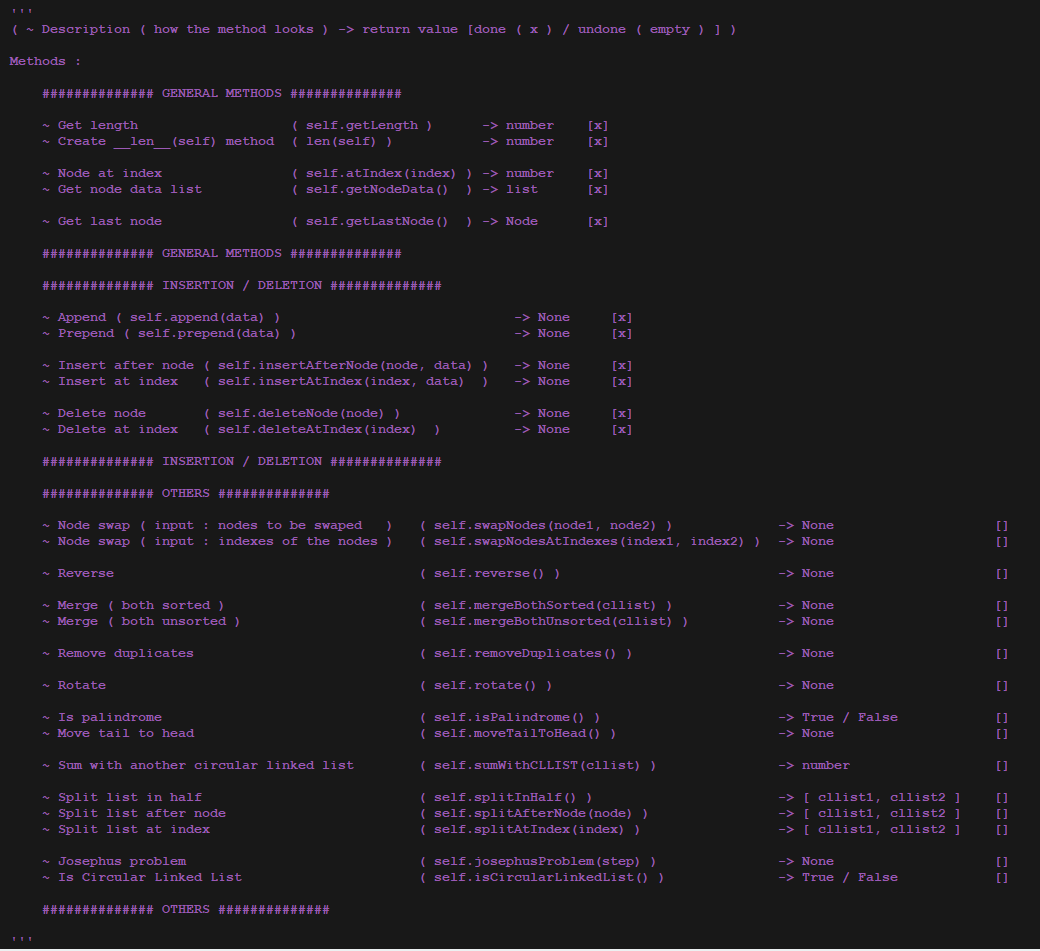
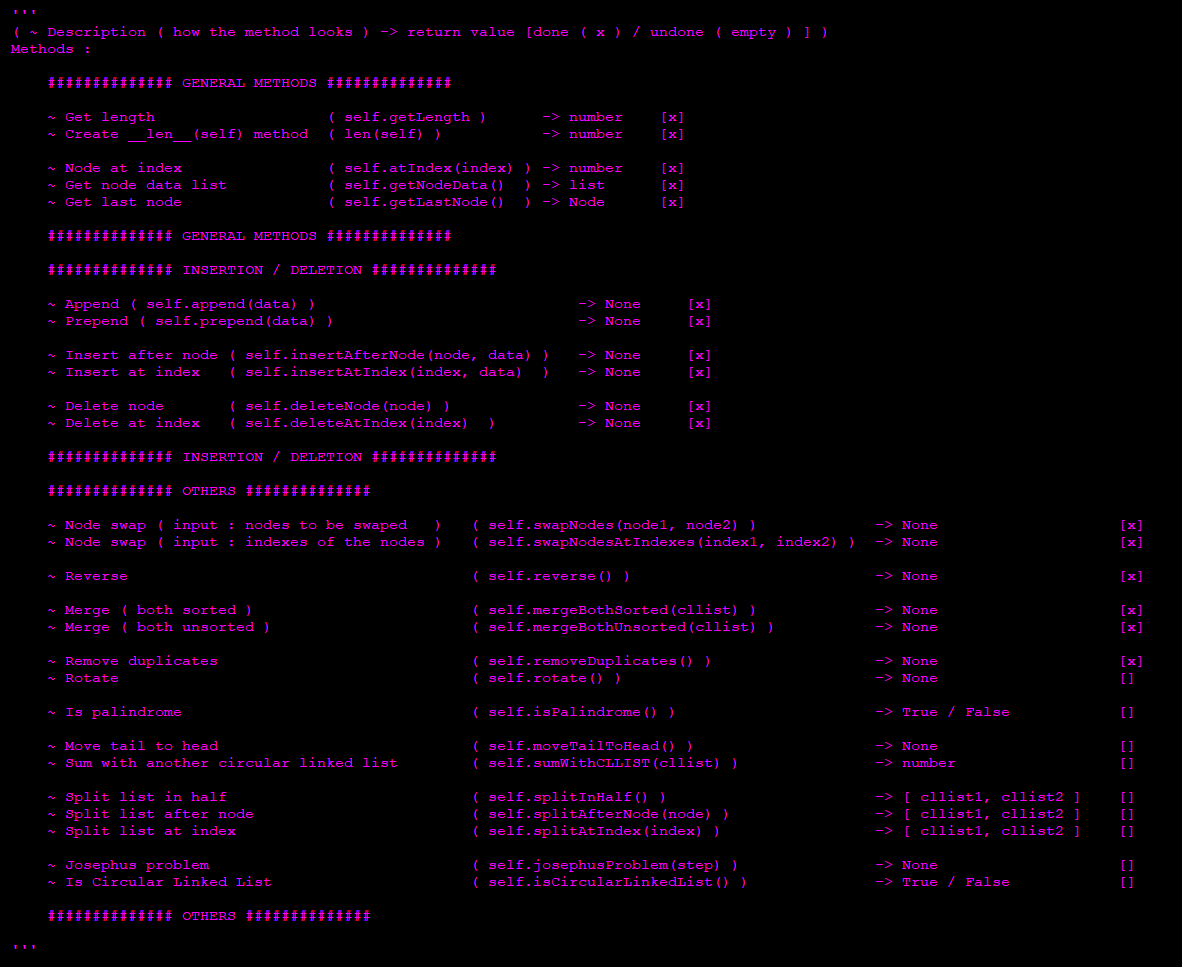
Circular Linked List - Final Code - Fixed merge ( both sorted ) + added merge ( both unsorted ) + added remove duplicates

diff --git a/Data structures ( code in python )/Circular Linked List ( Python Code )/CircularLinkedList_FinalCode.py b/Data structures ( code in python )/Circular Linked List ( Python Code )/CircularLinkedList_FinalCode.py
@@ -1,9 +1,77 @@
+import random
+import pprint
+
 # Create the node object, it will have a pointer to the next node (self.next) & a data value (self.data)
 class Node(object):
     def __init__(self, data):
         self.data = data
         self.next = None
 
+class quickSort(object):
+    def medianOfThree(self, arr, low, high):
+        if len(arr) >= 3:
+            # Get the start, middle and last value
+            start_middle_last = [ arr[low], arr[ ( low + high ) // 2 ], arr[ high ] ]
+
+            # Sort the list
+            start_middle_last.sort()
+
+            # Retun the index of the middle element 
+            return arr.index(start_middle_last[1])
+        else:
+            return random.randint(low, high)
+    def partition(self, arr, low, high):
+        # Pick the pivot index and select the pivot value ( using the 'median of three' startegy )
+        pivotIndex = self.medianOfThree(arr, low, high) 
+        pivotValue = arr[pivotIndex]
+
+        # Swap the pivot with the last element from the list to get the pivot from our way
+        arr[pivotIndex], arr[high] = arr[high], arr[pivotIndex]
+
+        # Update pivot index
+        pivotIndex = high
+
+        # Create 2 pointers ( LP & RP ). 
+        LP = low       # LP ( items > pivot )
+        RP = high - 1  # RP ( items < pivot )
+
+        while LP <= RP:
+            if arr[LP] > pivotValue and arr[RP] < pivotValue:
+                # Swap the pointer values
+                arr[LP], arr[RP] = arr[RP], arr[LP]
+
+                # Increment left pointer index value
+                LP += 1
+                # Decrement right pointer index value
+                RP -= 1
+            else:
+                if arr[LP] < pivotValue:
+                    # Increment left pointer index value
+                    LP += 1
+
+                if arr[RP] > pivotValue:
+                    # Decrement right pointer index value
+                    RP -= 1
+
+        # Swap the pivot index with the left pointer value
+        arr[pivotIndex], arr[LP] = arr[LP], arr[pivotIndex]
+
+        # Update pivot index
+        pivotIndex = LP
+
+        # Return the border index value of the pivot
+        return pivotIndex 
+    def sort(self, arr, low, high):
+        if low <= high:
+            # Get the 'border' index
+            partitionSplitIndex = self.partition(arr, low, high)
+
+            # Sort both halves of the array
+            self.sort(arr, low, partitionSplitIndex - 1)
+            self.sort(arr, partitionSplitIndex + 1, high)
+
+for i in range(2):
+    print()
 
 class CircularLinkedList(object):
     def __init__(self):
@@ -15,7 +83,6 @@ class CircularLinkedList(object):
 
         '''
         ( ~ Description ( how the method looks ) -> return value [done ( x ) / undone ( empty ) ] )
-
         Methods :
     
             ############## GENERAL METHODS ##############
@@ -25,7 +92,6 @@ class CircularLinkedList(object):
             
             ~ Node at index                ( self.atIndex(index) ) -> number    [x]
             ~ Get node data list           ( self.getNodeData()  ) -> list      [x]
-
             ~ Get last node                ( self.getLastNode()  ) -> Node      [x]
     
             ############## GENERAL METHODS ##############
@@ -48,18 +114,17 @@ class CircularLinkedList(object):
             ~ Node swap ( input : nodes to be swaped   )   ( self.swapNodes(node1, node2) )             -> None                    [x]
             ~ Node swap ( input : indexes of the nodes )   ( self.swapNodesAtIndexes(index1, index2) )  -> None                    [x]
 
-            ~ Reverse                                      ( self.reverse() )                           -> None                    []
+            ~ Reverse                                      ( self.reverse() )                           -> None                    [x]
 
-            ~ Merge ( both sorted )                        ( self.mergeBothSorted(cllist) )             -> None                    []
-            ~ Merge ( both unsorted )                      ( self.mergeBothUnsorted(cllist) )           -> None                    []
+            ~ Merge ( both sorted )                        ( self.mergeBothSorted(cllist) )             -> None                    [x]
+            ~ Merge ( both unsorted )                      ( self.mergeBothUnsorted(cllist) )           -> None                    [x]
 
-            ~ Remove duplicates                            ( self.removeDuplicates() )                  -> None                    []
-
+            ~ Remove duplicates                            ( self.removeDuplicates() )                  -> None                    [x]
             ~ Rotate                                       ( self.rotate() )                            -> None                    []
 
             ~ Is palindrome                                ( self.isPalindrome() )                      -> True / False            []
-            ~ Move tail to head                            ( self.moveTailToHead() )                    -> None                    []
 
+            ~ Move tail to head                            ( self.moveTailToHead() )                    -> None                    []
             ~ Sum with another circular linked list        ( self.sumWithCLLIST(cllist) )               -> number                  []
 
             ~ Split list in half                           ( self.splitInHalf() )                       -> [ cllist1, cllist2 ]    []
@@ -453,13 +518,14 @@ class CircularLinkedList(object):
         ''' 
         We will merge a sorted cllist where both lists are sorted :
         Example :
-
             cllist1 -- > [1, 5, 7, 9, 10]
             cllist2 -- > [2, 3, 4, 6, 8 ]
-
             after merge method :
             cllist1 -- > [1, 2, 3, 4, 5, 6, 7, 8, 9, 10]
         '''
+        # Check the merge cllist
+        if not merge_cllist:
+            raise ValueError("The given merge cllist is not valid.")
 
         # Create pointers
         P = self.head
@@ -478,21 +544,21 @@ class CircularLinkedList(object):
 
         # Iterate over the nodes in both cllists
         while True:
-	    # Check for the next pointer
+            # Check for the next pointer
             if S.data < Q.data and Q.data < P.data:
                 S.next = Node(Q.data)
                 Q = Q.next
             elif S.data < P.data and P.data < Q.data:
                 S.next = Node(P.data)
                 P = P.next
-            
-	    # Check if we should stop the loop. ( Stop the loop when one of the pointers has reached the limit
-	    if P is self.head:
-	    	break
-	    if Q is merge_cllist.head:
-	    	break
-	
-	    # Change the main pointer
+
+            # Check if we should stop the loop. ( Stop the loop when one of the pointers has reached the limit
+            if P is self.head:
+                break
+            if Q is merge_cllist.head:
+                break
+
+            # Change the main pointer
             S = S.next
 
         # Adding leftovers
@@ -511,7 +577,77 @@ class CircularLinkedList(object):
         # Change the head node of the cllist
         self.head = newHeadNode
         S.next = self.head
+    
+    def mergeBothUnsorted(self, merge_cllist):
+        '''
+        This is the same as merge both sorted, but we have to sort the node data in both lists first
 
+        ###########################################################
+        # ~ 1. Get all the node data in a list                   ##
+        # ~ 2. Sort the node data using the quick sort algorithm ##
+        # ~ 3. Rebuild the main cllist ( self )                  ##
+        ###########################################################
+
+        Example :
+        
+            main cllist  -- > [5, 4, 3, 2, 1 ]
+            merge cllist -- > [10, 9, 8, 7, 6]
+
+            after self.mergeBothUnsorted(...) ==> [1, 2, 3, 4, 5, 6, 7, 8, 9, 10]
+        '''
+        
+        # ~ 1
+        nodeDataList = self.getNodeData()
+        nodeDataList.extend(merge_cllist.getNodeData())
+        
+        # ~ 2
+        quickSort_alg = quickSort()
+        quickSort_alg.sort(nodeDataList, 0, len(nodeDataList) - 1) 
+
+        # ~ 3
+        current = Node(nodeDataList[0])
+        self.head = current
+
+        for nodeData in nodeDataList[1:]:
+            current.next = Node(nodeData)
+            current = current.next
+
+        current.next = self.head
+
+    def removeDuplicates(self):
+        # Make a list with all the node data and remove the duplicates from that list
+        # Rebuild the list
+
+        nodeDataList = self.getNodeData()
+
+        # Create two pointers, one that starts at the beginning of the cllist, the other starts at the end, that will 'scan' the list
+        LP = 0                      # Left pointer
+        RP = len(nodeDataList) - 1  # Right pointer
+
+        # Create an empty list that will contain all the values that don't repeat themselves
+        noDuplicatesList = list()
+
+        while LP <= RP:
+            # Check if the value is not in the 'noDuplicatesList', if it's not, append it to the list
+            if nodeDataList[LP] not in noDuplicatesList:
+                noDuplicatesList.append(nodeDataList[LP])
+            if nodeDataList[RP] not in noDuplicatesList:
+                noDuplicatesList.append(nodeDataList[RP])
+            
+            # Increment left pointer | Decrement right pointer
+            LP += 1
+            RP -= 1
+    
+        
+        # Rebuild the list
+        self.head = Node( noDuplicatesList[0] )
+        current = self.head
+            
+        for nodeData in noDuplicatesList[1:]:
+            current.next = Node(nodeData)
+            current = current.next
+
+        current.next = self.head
 
     ############## OTHERS ##############
 
@@ -519,15 +655,15 @@ class CircularLinkedList(object):
 cllist = CircularLinkedList()
 cllist_2 = CircularLinkedList()
 
-for i in [1, 5, 7, 9, 10]:
+for i in [1, 1, 1, 1, 1, 2, 3 ,4, 4, 4, 5, 6, 2, 2, 2, 1, 4, 5, 6, 7, 8, 9, 2, 3, 4]:
     cllist.append(i)
-for i in [2, 3, 4, 6, 8]:
+for i in list(range(10, 5, -1)):
     cllist_2.append(i)
 
 for i in range(3):
     print()
 
-cllist.mergeBothSorted(cllist_2)
+cllist.removeDuplicates()
 
 print(" -- > ")
 print(cllist.getNodeData())
